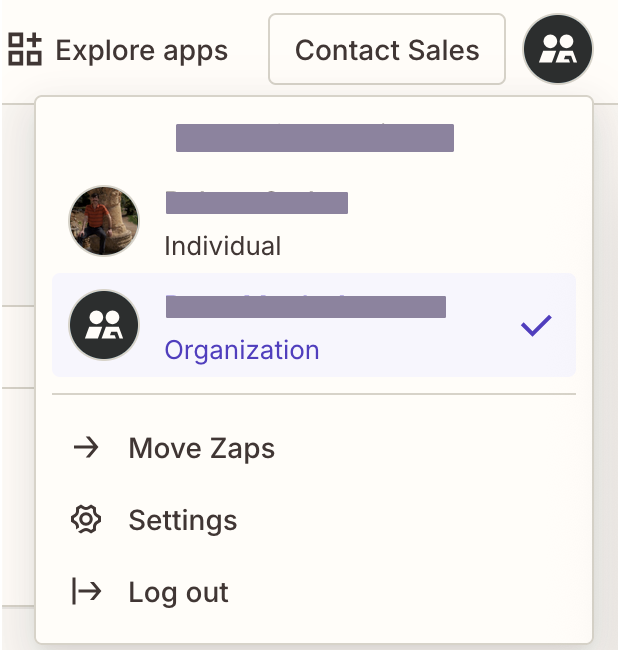
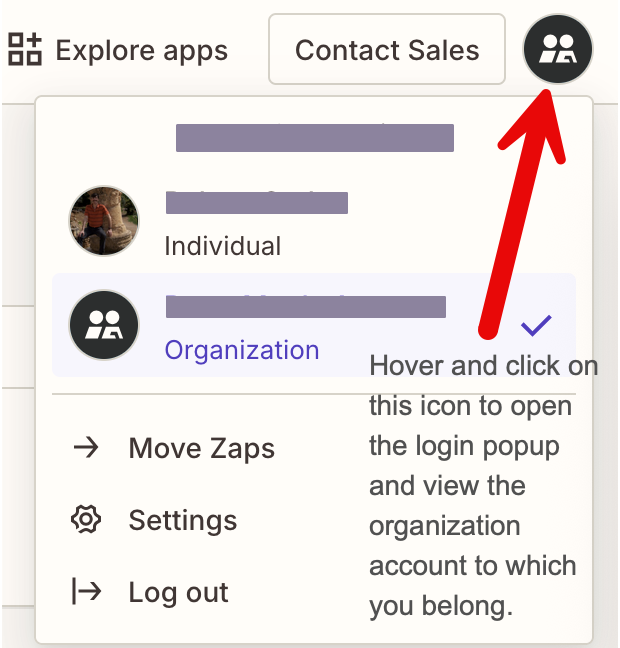
Remove or update image and gif files. Update the wiki.md and README.md file.

diff --git a/wiki.md b/wiki.md
@@ -1,4 +1,4 @@
-## Join the Garden Club team account on Zapier
+## Join the Garden Club of Minneapolis' team account on Zapier
 
 The Garden Club has a team account with Zapier.  If your club responsibilities involve access to club membership or event registration data stored in Zapier, request an invitation to join the club's Zapier account from an account administrator.
 
@@ -27,7 +27,6 @@ On hover, a popup will open that identifies you as an individual account holder 
 
 Once you are logged in to the club's Zapier account, move your curser to the left side of the screen to open the navigation panel.
 
-<<< Redo the gif. Leave only the browser tabs open that are necessary. >>>
 ![Open the Zapier Tables landing page from Zapier navigation](gifs/Opening_the_Tables_landing_page_from_Zapier_nav.gif)
 
 Move the cursor over the left sidebar and expose the navigation menu. Select the Tables nav item to open the Tables landing page.
@@ -89,24 +88,22 @@ In the example above, 4 tabs are shown side-by-side. From left to right, they in
 
 Use the built-in search field within a Zapier Table to search for any value within a field.
 
-<<<Edit or redo the .png file. Remove the term 'Alternatively:' >>>
-
 ![Search_for_a_term_in_a_Zapier_Table](/images/Search_for_a_term_in_a_Zapier_Table.png)
 
 #### Keyboard shortcut to open the 'search' field
 
-The alternative to clicking on the search field inside a Zapier table is to open it from the keyboard. 
+The alternative to clicking on the search field inside a Zapier table is to _open it from the keyboard_. 
 
 - (Mac) Press the 'Command' and letter 'F' key at the same time. 
 - (Windows) Press the 'Control' and letter 'F' key at the same time.
 
-Either keyboard command will open the search field in the upper right corner of the table. Proceed to search. 
+Either keyboard command will open the search field in the upper right corner of the table. Try it yourself. Then add a term to search in the search field.
 
 ### Add a new row to a Zapier Table 
 
 ![Add_record_button_at_bottom_of_Zapier_Table](/images/Add_record_button_at_bottom_of_Zapier_Table.png)
 
-To add a new row to a Zapier Table, press the 'Add Record' button in the bottom-left corner of the table. A new, empty table row will automatically be added to the bottom of the existing table.
+To add a new row to a Zapier Table, press the 'Add record' button in the bottom-left corner of the table. A new, empty table row will automatically be added to the bottom of the existing table.
 
 ### Edit a new or existing row within a Zapier Table
 
@@ -116,7 +113,7 @@ To add a new row to a Zapier Table, press the 'Add Record' button in the bottom-
 
 ### Show / Hide columns within a Zapier Table
 
-Table columns and their fields can be hidden or displayed by the checkboxes selected in the 'Hidden Fields' popup. This allows one to create a custom view of table records. 
+Table columns and their fields can be hidden or shown by the checkboxes selected in the 'Hidden Fields' popup. This allows one to create a custom view of one or more table records. 
 
 #### Locate the 'Hidden Fields' menu icons in a Zapier Table
 
@@ -179,13 +176,17 @@ There are 2 'Filter' icons visible from the table view. A 'Filter' menu label is
   - change the conditions of the filter, or 
   - filter on a different column.
 
-- **NOTE:** Filter settings only apply **to the current table**. Filter settings chosen in the first table will not apply to a differently named table.
+- **NOTE:** Filter settings only apply **to the current table view**. If you refresh your browser, the filter _will not persist_. You will have to reset it again. Likewise, if you open a different Zapier Table, the filter set in the first table will not persist and display in the new table. 
 
 ### Save a Filter by Name / Save a Custom View
 
 Like hidden fields, filters can also be saved by name. The following steps show how to name and save a filter for later use. 
 
 ![Save_a_table_filter_as_a_custom_view](/images/Save_a_table_filter_as_a_custom_view.png)
+
+The value of _saving a filter by name_ is that once saved, it can be reopened in one of two ways: 
+1. **From within the Zapier Table:** Find the 'Main Table' down-down menu located in the top-left corner of the table. Hover your cursor over the label and click to open it. Select any saved view file from within the drop-down menu. 
+2. **From the Zapier Tables landing page:** The names of saved filters are also listed on the 'Tables' landing page along with the names of the Zapier Tables available for view. 
 
 ### Count Table Rows ( Records )
 
@@ -214,40 +215,15 @@ This is a useful feature in Zapier Tables that store event registration data suc
 1. **Table view from within Zapier Tables:** read the table data from left to right. 
 2. **Select an individual table row (record) and view it as a popup.**
 3. **A custom table view from within Zapier Tables:** select table columns to hide and display only the columns you wish to see.
-  - [see 'Create a Custom View of a Zapier Table Within the Hidden Fields Popup Menu' above](#Create-Custom-View) 
-
-<<<STOP 10-27-2025 Make the following a step-by-step image file. >>>
+  - [see 'Create a Custom View of a Zapier Table Within the Hidden Fields Popup Menu' above](#Create-Custom-View)
 
 4. **As a download to your computer:** download the entire table or a custom table view to your computer. 
-   - Open the Zapier Table that you want to download.
-   
-   - (Optional) Select the table columns to view using the 'Hide Fields' menu.
-   
-   - Look at the bottom margin of the table for the 'Download' menu item.
-   
-   - Hover your cursor over the 'Download' label and click. 
 
-   ![Download_label_at_bottom_of_Zapier_Table](/images/Download_label_at_bottom_of_Zapier_Table.png)
-
-   - On click, a popup will appear that says "Downloading to .csv", followed by "Download complete".
-   
-   - The file will be saved to the 'Downloads' folder on your computer.
-   
-   - The file name will be the name of the Zapier Table with the date and time stamp added at the end. For example: 'Awards Banquet _ Registrations _ Production_2025-10-27T04_57_03.csv'.
-   
-   - The file extension will be .csv.
-   
-   - Your computer will attempt to open the file with whatever application you preselected to open .csv files (usually a spreadsheet).
-   
-   - The file will contain 3 columns of metadata that precede the table data. The metadata is 'table_record_id', 'tables_created_at', and 'tables_updated_at'. Delete those columns from the downloaded file.
-   
-   ![Filtered_Zapier_Table_after_download](/images/Filtered_Zapier_Table_after_download.png)
-
-   - Only Zapier Table columns that are visible in the table will be downloaded. 
+![Filter_Download_and_Format_Selected_Columns_from_a_Zapier_Table](/images/Filter Download and Format Selected Columns from a Zapier Table.png)
 
 #### From Google Drive
-The Membership Committee maintains a Google Drive at the account address of 'membershipgcm@gmail.com'. Zapier sends the names of each renewing and new member to a spreadsheet located at 'GCM Currrent Membership List' >> 'GCM Current Membership List'.
 
+The Membership Committee maintains a Google Drive at the account address 'membershipgcm@gmail.com'. The 'Membership Record Processing' Zap (data processing workflow) sends the names of each renewing and new member to a spreadsheet located at 'GCM Current Membership List' >> 'GCM Current Membership List'.
 
 ### Delete a row within a Zapier Table
 

diff --git a/README.md b/README.md
@@ -1,8 +1,19 @@
-## What the project does
-    - Introduces readers to Zapier;
-    - Summarizes the use of Zapier for managing club records;
-    - Directs readers to our wiki on how to access and view records in Zapier; and
-    - Introduces readers to features available within Zapier Tables.
+## About Zapier
+
+    - Zapier is a software-as-a-service platform that manages data for procesing, storage, and output. 
+    - It is used by the Garden Club of Minneapolis to process form submissions sent from the club website. 
+    - As of the current revision to this README.md, Zapier is used to process event registrations and memberships. 
+
+## About this wiki
+    - Wiki is a Hawaiin term that means quick or brief. 
+    - Wikis serve to provide information about software programs to visitors and users.
+    - This wiki describes how to: 
+        - access the club's Zapier team account, 
+        - find and open a Zapier Table, 
+        - filter Zapier Table data,
+        - save filtered data as a custom view,
+        - perform common tasks within Zapier Tables such as create(add), read(view), update(modify), or delete records (CRUD), and
+        - download Zapier Table data to your local computer.
 
 ## Why the project is useful
     - Zapier provides data processing and storage of club records within a team-based account.
@@ -14,3 +25,5 @@
 
 ## For questions or comments about this project
     - Contact Robert Gadon at rgadon107 at gmail dot com.
+
+Revision 0, 10-29-2025
